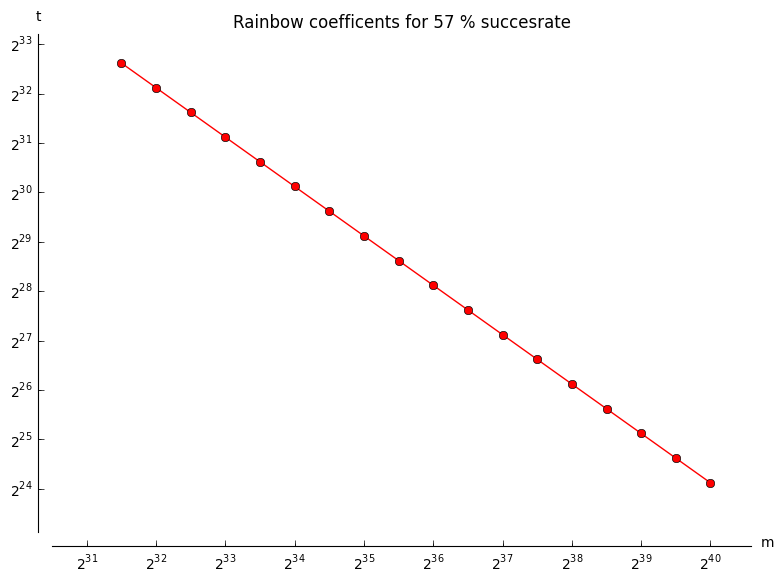
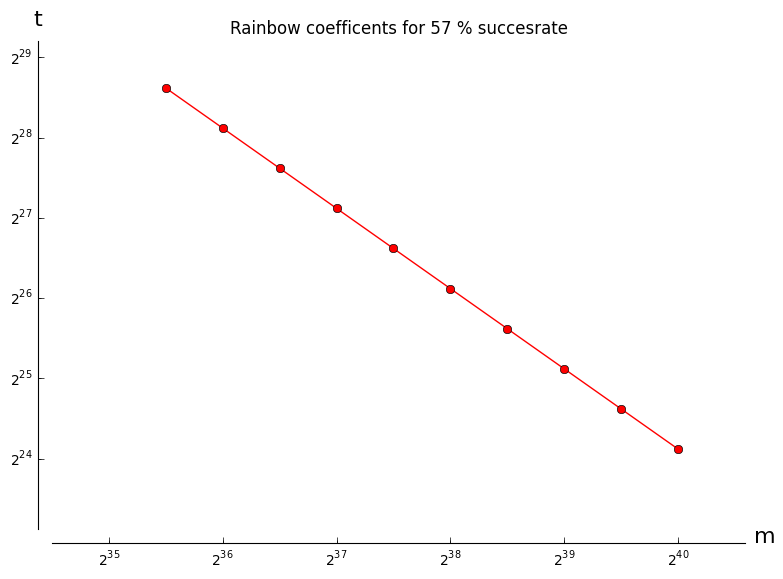
new rainbow graphs and tables and rainbowprob with 64-bit params

diff --git a/src/math/rainbowtab.tex b/src/math/rainbowtab.tex
@@ -1,164 +1,7 @@
-\text{\texttt{Success{ }={ }0.580000,{ }Rmsc{ }={ }1.086067,{ }l{ }={
-    }1,{ }Offline{ }phase{ }={ }2{\char`\^}64.119113}}
-\\\\
-\begin{tabular}{llll}
-m & t & M(TB) & T \\ \hline
-$2^{37.00}$ & $2^{27.12}$ & $0.02$ & $2^{52.43}$ \\
-$2^{37.50}$ & $2^{26.62}$ & $0.02$ & $2^{51.43}$ \\
-$2^{38.00}$ & $2^{26.12}$ & $0.03$ & $2^{50.43}$ \\
-$2^{38.50}$ & $2^{25.62}$ & $0.05$ & $2^{49.43}$ \\
-$2^{39.00}$ & $2^{25.12}$ & $0.07$ & $2^{48.43}$ \\
-$2^{39.50}$ & $2^{24.62}$ & $0.10$ & $2^{47.43}$ \\
-$2^{40.00}$ & $2^{24.12}$ & $0.14$ & $2^{46.43}$ \\
-$2^{40.50}$ & $2^{23.62}$ & $0.19$ & $2^{45.43}$ \\
-$2^{41.00}$ & $2^{23.12}$ & $0.27$ & $2^{44.43}$ \\
-$2^{41.50}$ & $2^{22.62}$ & $0.39$ & $2^{43.43}$ \\
-$2^{42.00}$ & $2^{22.12}$ & $0.55$ & $2^{42.43}$ \\
-$2^{42.50}$ & $2^{21.62}$ & $0.78$ & $2^{41.43}$ \\
-$2^{43.00}$ & $2^{21.12}$ & $1.10$ & $2^{40.43}$ \\
-$2^{43.50}$ & $2^{20.62}$ & $1.55$ & $2^{39.43}$ \\
-$2^{44.00}$ & $2^{20.12}$ & $2.20$ & $2^{38.43}$ \\
-$2^{44.50}$ & $2^{19.62}$ & $3.11$ & $2^{37.43}$ \\
-$2^{45.00}$ & $2^{19.12}$ & $4.40$ & $2^{36.43}$ \\
-$2^{45.50}$ & $2^{18.62}$ & $6.22$ & $2^{35.43}$ \\
-\end{tabular}
-\\\\ 
-\text{\texttt{Success{ }={ }0.730000,{ }Rmsc{ }={ }1.849002,{ }l{ }={
-    }1,{ }Offline{ }phase{ }={ }2{\char`\^}64.886747}}
-\\\\
-\begin{tabular}{llll}
-m & t & M(TB) & T \\ \hline
-$2^{37.00}$ & $2^{27.89}$ & $0.02$ & $2^{53.58}$ \\
-$2^{37.50}$ & $2^{27.39}$ & $0.02$ & $2^{52.58}$ \\
-$2^{38.00}$ & $2^{26.89}$ & $0.03$ & $2^{51.58}$ \\
-$2^{38.50}$ & $2^{26.39}$ & $0.05$ & $2^{50.58}$ \\
-$2^{39.00}$ & $2^{25.89}$ & $0.07$ & $2^{49.58}$ \\
-$2^{39.50}$ & $2^{25.39}$ & $0.10$ & $2^{48.58}$ \\
-$2^{40.00}$ & $2^{24.89}$ & $0.14$ & $2^{47.58}$ \\
-$2^{40.50}$ & $2^{24.39}$ & $0.19$ & $2^{46.58}$ \\
-$2^{41.00}$ & $2^{23.89}$ & $0.27$ & $2^{45.58}$ \\
-$2^{41.50}$ & $2^{23.39}$ & $0.39$ & $2^{44.58}$ \\
-$2^{42.00}$ & $2^{22.89}$ & $0.55$ & $2^{43.58}$ \\
-$2^{42.50}$ & $2^{22.39}$ & $0.78$ & $2^{42.58}$ \\
-$2^{43.00}$ & $2^{21.89}$ & $1.10$ & $2^{41.58}$ \\
-$2^{43.50}$ & $2^{21.39}$ & $1.55$ & $2^{40.58}$ \\
-$2^{44.00}$ & $2^{20.89}$ & $2.20$ & $2^{39.58}$ \\
-$2^{44.50}$ & $2^{20.39}$ & $3.11$ & $2^{38.58}$ \\
-$2^{45.00}$ & $2^{19.89}$ & $4.40$ & $2^{37.58}$ \\
-$2^{45.50}$ & $2^{19.39}$ & $6.22$ & $2^{36.58}$ \\
-\end{tabular}
-\\\\
-\text{\texttt{Success{ }={ }0.900000,{ }Rmsc{ }={ }4.324555,{ }l{ }={
-    }1,{ }Offline{ }phase{ }={ }2{\char`\^}66.112552}}
-\\\\
-\begin{tabular}{llll}
-m & t & M(TB) & T \\ \hline
-$2^{37.00}$ & $2^{29.11}$ & $0.02$ & $2^{55.19}$ \\
-$2^{37.50}$ & $2^{28.61}$ & $0.02$ & $2^{54.19}$ \\
-$2^{38.00}$ & $2^{28.11}$ & $0.03$ & $2^{53.19}$ \\
-$2^{38.50}$ & $2^{27.61}$ & $0.05$ & $2^{52.19}$ \\
-$2^{39.00}$ & $2^{27.11}$ & $0.07$ & $2^{51.19}$ \\
-$2^{39.50}$ & $2^{26.61}$ & $0.10$ & $2^{50.19}$ \\
-$2^{40.00}$ & $2^{26.11}$ & $0.14$ & $2^{49.19}$ \\
-$2^{40.50}$ & $2^{25.61}$ & $0.19$ & $2^{48.19}$ \\
-$2^{41.00}$ & $2^{25.11}$ & $0.27$ & $2^{47.19}$ \\
-$2^{41.50}$ & $2^{24.61}$ & $0.39$ & $2^{46.19}$ \\
-$2^{42.00}$ & $2^{24.11}$ & $0.55$ & $2^{45.19}$ \\
-$2^{42.50}$ & $2^{23.61}$ & $0.78$ & $2^{44.19}$ \\
-$2^{43.00}$ & $2^{23.11}$ & $1.10$ & $2^{43.19}$ \\
-$2^{43.50}$ & $2^{22.61}$ & $1.55$ & $2^{42.19}$ \\
-$2^{44.00}$ & $2^{22.11}$ & $2.20$ & $2^{41.19}$ \\
-$2^{44.50}$ & $2^{21.61}$ & $3.11$ & $2^{40.19}$ \\
-$2^{45.00}$ & $2^{21.11}$ & $4.40$ & $2^{39.19}$ \\
-$2^{45.50}$ & $2^{20.61}$ & $6.22$ & $2^{38.19}$ \\
-\end{tabular}
-\\\\
- \text{\texttt{Success{ }={ }0.580000,{ }Rmsc{ }={ }0.311116,{ }l{ }={
-     }3,{ }Offline{ }phase{ }={ }2{\char`\^}63.900488}}
-\\\\
-\begin{tabular}{llll}
-m & t & M(TB) & T \\ \hline
-$2^{37.00}$ & $2^{25.32}$ & $0.05$ & $2^{50.11}$ \\
-$2^{37.50}$ & $2^{24.82}$ & $0.07$ & $2^{49.11}$ \\
-$2^{38.00}$ & $2^{24.32}$ & $0.10$ & $2^{48.11}$ \\
-$2^{38.50}$ & $2^{23.82}$ & $0.15$ & $2^{47.11}$ \\
-$2^{39.00}$ & $2^{23.32}$ & $0.21$ & $2^{46.11}$ \\
-$2^{39.50}$ & $2^{22.82}$ & $0.29$ & $2^{45.11}$ \\
-$2^{40.00}$ & $2^{22.32}$ & $0.41$ & $2^{44.11}$ \\
-$2^{40.50}$ & $2^{21.82}$ & $0.58$ & $2^{43.11}$ \\
-$2^{41.00}$ & $2^{21.32}$ & $0.82$ & $2^{42.11}$ \\
-$2^{41.50}$ & $2^{20.82}$ & $1.17$ & $2^{41.11}$ \\
-$2^{42.00}$ & $2^{20.32}$ & $1.65$ & $2^{40.11}$ \\
-$2^{42.50}$ & $2^{19.82}$ & $2.33$ & $2^{39.11}$ \\
-$2^{43.00}$ & $2^{19.32}$ & $3.30$ & $2^{38.11}$ \\
-$2^{43.50}$ & $2^{18.82}$ & $4.66$ & $2^{37.11}$ \\
-$2^{44.00}$ & $2^{18.32}$ & $6.60$ & $2^{36.11}$ \\
-$2^{44.50}$ & $2^{17.82}$ & $9.33$ & $2^{35.11}$ \\
-$2^{45.00}$ & $2^{17.32}$ & $13.19$ & $2^{34.11}$ \\
-$2^{45.50}$ & $2^{16.82}$ & $18.66$ & $2^{33.11}$ \\
-\end{tabular}
-\\\\
- \text{\texttt{Success{ }={ }0.730000,{ }Rmsc{ }={ }0.487727,{ }l{ }={
-     }3,{ }Offline{ }phase{ }={ }2{\char`\^}64.549108}}
-\\\\
-\begin{tabular}{llll}
-m & t & M(TB) & T \\ \hline
-$2^{37.00}$ & $2^{25.96}$ & $0.05$ & $2^{50.84}$ \\
-$2^{37.50}$ & $2^{25.46}$ & $0.07$ & $2^{49.84}$ \\
-$2^{38.00}$ & $2^{24.96}$ & $0.10$ & $2^{48.84}$ \\
-$2^{38.50}$ & $2^{24.46}$ & $0.15$ & $2^{47.84}$ \\
-$2^{39.00}$ & $2^{23.96}$ & $0.21$ & $2^{46.84}$ \\
-$2^{39.50}$ & $2^{23.46}$ & $0.29$ & $2^{45.84}$ \\
-$2^{40.00}$ & $2^{22.96}$ & $0.41$ & $2^{44.84}$ \\
-$2^{40.50}$ & $2^{22.46}$ & $0.58$ & $2^{43.84}$ \\
-$2^{41.00}$ & $2^{21.96}$ & $0.82$ & $2^{42.84}$ \\
-$2^{41.50}$ & $2^{21.46}$ & $1.17$ & $2^{41.84}$ \\
-$2^{42.00}$ & $2^{20.96}$ & $1.65$ & $2^{40.84}$ \\
-$2^{42.50}$ & $2^{20.46}$ & $2.33$ & $2^{39.84}$ \\
-$2^{43.00}$ & $2^{19.96}$ & $3.30$ & $2^{38.84}$ \\
-$2^{43.50}$ & $2^{19.46}$ & $4.66$ & $2^{37.84}$ \\
-$2^{44.00}$ & $2^{18.96}$ & $6.60$ & $2^{36.84}$ \\
-$2^{44.50}$ & $2^{18.46}$ & $9.33$ & $2^{35.84}$ \\
-$2^{45.00}$ & $2^{17.96}$ & $13.19$ & $2^{34.84}$ \\
-$2^{45.50}$ & $2^{17.46}$ & $18.66$ & $2^{33.84}$ \\
-\end{tabular}
-\\\\
- \text{\texttt{Success{ }={ }0.900000,{ }Rmsc{ }={ }0.935599,{ }l{ }={
-     }3,{ }Offline{ }phase{ }={ }2{\char`\^}65.488924}}
-\\\\
-\begin{tabular}{llll}
-m & t & M(TB) & T \\ \hline
-$2^{37.00}$ & $2^{26.90}$ & $0.05$ & $2^{51.46}$ \\
-$2^{37.50}$ & $2^{26.40}$ & $0.07$ & $2^{50.46}$ \\
-$2^{38.00}$ & $2^{25.90}$ & $0.10$ & $2^{49.46}$ \\
-$2^{38.50}$ & $2^{25.40}$ & $0.15$ & $2^{48.46}$ \\
-$2^{39.00}$ & $2^{24.90}$ & $0.21$ & $2^{47.46}$ \\
-$2^{39.50}$ & $2^{24.40}$ & $0.29$ & $2^{46.46}$ \\
-$2^{40.00}$ & $2^{23.90}$ & $0.41$ & $2^{45.46}$ \\
-$2^{40.50}$ & $2^{23.40}$ & $0.58$ & $2^{44.46}$ \\
-$2^{41.00}$ & $2^{22.90}$ & $0.82$ & $2^{43.46}$ \\
-$2^{41.50}$ & $2^{22.40}$ & $1.17$ & $2^{42.46}$ \\
-$2^{42.00}$ & $2^{21.90}$ & $1.65$ & $2^{41.46}$ \\
-$2^{42.50}$ & $2^{21.40}$ & $2.33$ & $2^{40.46}$ \\
-$2^{43.00}$ & $2^{20.90}$ & $3.30$ & $2^{39.46}$ \\
-$2^{43.50}$ & $2^{20.40}$ & $4.66$ & $2^{38.46}$ \\
-$2^{44.00}$ & $2^{19.90}$ & $6.60$ & $2^{37.46}$ \\
-$2^{44.50}$ & $2^{19.40}$ & $9.33$ & $2^{36.46}$ \\
-$2^{45.00}$ & $2^{18.90}$ & $13.19$ & $2^{35.46}$ \\
-$2^{45.50}$ & $2^{18.40}$ & $18.66$ & $2^{34.46}$ \\
-\end{tabular}
 
  \ \text{\texttt{Success{ }={ }0.580000,{ }Rmsc{ }={ }1.086067,{ }l{ }={ }1,{ }Offline{ }phase{ }={ }2{\char`\^}64.119113}}
 \begin{tabular}{llll}
 m & t & M(TB) & T \\ \hline
-$2^{31.50}$ & $2^{32.62}$ & $0.02$ & $2^{63.43}$ \\
-$2^{32.00}$ & $2^{32.12}$ & $0.03$ & $2^{62.43}$ \\
-$2^{32.50}$ & $2^{31.62}$ & $0.05$ & $2^{61.43}$ \\
-$2^{33.00}$ & $2^{31.12}$ & $0.07$ & $2^{60.43}$ \\
-$2^{33.50}$ & $2^{30.62}$ & $0.10$ & $2^{59.43}$ \\
-$2^{34.00}$ & $2^{30.12}$ & $0.14$ & $2^{58.43}$ \\
-$2^{34.50}$ & $2^{29.62}$ & $0.19$ & $2^{57.43}$ \\
-$2^{35.00}$ & $2^{29.12}$ & $0.27$ & $2^{56.43}$ \\
 $2^{35.50}$ & $2^{28.62}$ & $0.39$ & $2^{55.43}$ \\
 $2^{36.00}$ & $2^{28.12}$ & $0.55$ & $2^{54.43}$ \\
 $2^{36.50}$ & $2^{27.62}$ & $0.78$ & $2^{53.43}$ \\
@@ -173,14 +16,6 @@ $2^{40.00}$ & $2^{24.12}$ & $8.80$ & $2^{46.43}$ \\
  \ \text{\texttt{Success{ }={ }0.730000,{ }Rmsc{ }={ }1.849002,{ }l{ }={ }1,{ }Offline{ }phase{ }={ }2{\char`\^}64.886747}}
 \begin{tabular}{llll}
 m & t & M(TB) & T \\ \hline
-$2^{31.50}$ & $2^{33.39}$ & $0.02$ & $2^{64.58}$ \\
-$2^{32.00}$ & $2^{32.89}$ & $0.03$ & $2^{63.58}$ \\
-$2^{32.50}$ & $2^{32.39}$ & $0.05$ & $2^{62.58}$ \\
-$2^{33.00}$ & $2^{31.89}$ & $0.07$ & $2^{61.58}$ \\
-$2^{33.50}$ & $2^{31.39}$ & $0.10$ & $2^{60.58}$ \\
-$2^{34.00}$ & $2^{30.89}$ & $0.14$ & $2^{59.58}$ \\
-$2^{34.50}$ & $2^{30.39}$ & $0.19$ & $2^{58.58}$ \\
-$2^{35.00}$ & $2^{29.89}$ & $0.27$ & $2^{57.58}$ \\
 $2^{35.50}$ & $2^{29.39}$ & $0.39$ & $2^{56.58}$ \\
 $2^{36.00}$ & $2^{28.89}$ & $0.55$ & $2^{55.58}$ \\
 $2^{36.50}$ & $2^{28.39}$ & $0.78$ & $2^{54.58}$ \\
@@ -195,14 +30,6 @@ $2^{40.00}$ & $2^{24.89}$ & $8.80$ & $2^{47.58}$ \\
  \ \text{\texttt{Success{ }={ }0.900000,{ }Rmsc{ }={ }4.324555,{ }l{ }={ }1,{ }Offline{ }phase{ }={ }2{\char`\^}66.112552}}
 \begin{tabular}{llll}
 m & t & M(TB) & T \\ \hline
-$2^{31.50}$ & $2^{34.61}$ & $0.02$ & $2^{66.19}$ \\
-$2^{32.00}$ & $2^{34.11}$ & $0.03$ & $2^{65.19}$ \\
-$2^{32.50}$ & $2^{33.61}$ & $0.05$ & $2^{64.19}$ \\
-$2^{33.00}$ & $2^{33.11}$ & $0.07$ & $2^{63.19}$ \\
-$2^{33.50}$ & $2^{32.61}$ & $0.10$ & $2^{62.19}$ \\
-$2^{34.00}$ & $2^{32.11}$ & $0.14$ & $2^{61.19}$ \\
-$2^{34.50}$ & $2^{31.61}$ & $0.19$ & $2^{60.19}$ \\
-$2^{35.00}$ & $2^{31.11}$ & $0.27$ & $2^{59.19}$ \\
 $2^{35.50}$ & $2^{30.61}$ & $0.39$ & $2^{58.19}$ \\
 $2^{36.00}$ & $2^{30.11}$ & $0.55$ & $2^{57.19}$ \\
 $2^{36.50}$ & $2^{29.61}$ & $0.78$ & $2^{56.19}$ \\
@@ -214,25 +41,46 @@ $2^{39.00}$ & $2^{27.11}$ & $4.40$ & $2^{51.19}$ \\
 $2^{39.50}$ & $2^{26.61}$ & $6.22$ & $2^{50.19}$ \\
 $2^{40.00}$ & $2^{26.11}$ & $8.80$ & $2^{49.19}$ \\
 \end{tabular}
- \ \text{\texttt{Success{ }={ }0.580000,{ }Rmsc{ }={ }1.086067,{ }l{ }={ }1,{ }Offline{ }phase{ }={ }2{\char`\^}64.119113}}
+
+ \ \text{\texttt{Success{ }={ }0.580000,{ }Rmsc{ }={ }0.311116,{ }l{ }={ }3,{ }Offline{ }phase{ }={ }2{\char`\^}63.900488}}
 \begin{tabular}{llll}
 m & t & M(TB) & T \\ \hline
-$2^{31.50}$ & $2^{32.62}$ & $0.02$ & $2^{63.43}$ \\
-$2^{32.00}$ & $2^{32.12}$ & $0.03$ & $2^{62.43}$ \\
-$2^{32.50}$ & $2^{31.62}$ & $0.05$ & $2^{61.43}$ \\
-$2^{33.00}$ & $2^{31.12}$ & $0.07$ & $2^{60.43}$ \\
-$2^{33.50}$ & $2^{30.62}$ & $0.10$ & $2^{59.43}$ \\
-$2^{34.00}$ & $2^{30.12}$ & $0.14$ & $2^{58.43}$ \\
-$2^{34.50}$ & $2^{29.62}$ & $0.19$ & $2^{57.43}$ \\
-$2^{35.00}$ & $2^{29.12}$ & $0.27$ & $2^{56.43}$ \\
-$2^{35.50}$ & $2^{28.62}$ & $0.39$ & $2^{55.43}$ \\
-$2^{36.00}$ & $2^{28.12}$ & $0.55$ & $2^{54.43}$ \\
-$2^{36.50}$ & $2^{27.62}$ & $0.78$ & $2^{53.43}$ \\
-$2^{37.00}$ & $2^{27.12}$ & $1.10$ & $2^{52.43}$ \\
-$2^{37.50}$ & $2^{26.62}$ & $1.55$ & $2^{51.43}$ \\
-$2^{38.00}$ & $2^{26.12}$ & $2.20$ & $2^{50.43}$ \\
-$2^{38.50}$ & $2^{25.62}$ & $3.11$ & $2^{49.43}$ \\
-$2^{39.00}$ & $2^{25.12}$ & $4.40$ & $2^{48.43}$ \\
-$2^{39.50}$ & $2^{24.62}$ & $6.22$ & $2^{47.43}$ \\
-$2^{40.00}$ & $2^{24.12}$ & $8.80$ & $2^{46.43}$ \\
+$2^{35.50}$ & $2^{26.82}$ & $1.17$ & $2^{53.11}$ \\
+$2^{36.00}$ & $2^{26.32}$ & $1.65$ & $2^{52.11}$ \\
+$2^{36.50}$ & $2^{25.82}$ & $2.33$ & $2^{51.11}$ \\
+$2^{37.00}$ & $2^{25.32}$ & $3.30$ & $2^{50.11}$ \\
+$2^{37.50}$ & $2^{24.82}$ & $4.66$ & $2^{49.11}$ \\
+$2^{38.00}$ & $2^{24.32}$ & $6.60$ & $2^{48.11}$ \\
+$2^{38.50}$ & $2^{23.82}$ & $9.33$ & $2^{47.11}$ \\
+$2^{39.00}$ & $2^{23.32}$ & $13.19$ & $2^{46.11}$ \\
+$2^{39.50}$ & $2^{22.82}$ & $18.66$ & $2^{45.11}$ \\
+$2^{40.00}$ & $2^{22.32}$ & $26.39$ & $2^{44.11}$ \\
+\end{tabular}
+ \ \text{\texttt{Success{ }={ }0.730000,{ }Rmsc{ }={ }0.487727,{ }l{ }={ }3,{ }Offline{ }phase{ }={ }2{\char`\^}64.549108}}
+\begin{tabular}{llll}
+m & t & M(TB) & T \\ \hline
+$2^{35.50}$ & $2^{27.46}$ & $1.17$ & $2^{53.84}$ \\
+$2^{36.00}$ & $2^{26.96}$ & $1.65$ & $2^{52.84}$ \\
+$2^{36.50}$ & $2^{26.46}$ & $2.33$ & $2^{51.84}$ \\
+$2^{37.00}$ & $2^{25.96}$ & $3.30$ & $2^{50.84}$ \\
+$2^{37.50}$ & $2^{25.46}$ & $4.66$ & $2^{49.84}$ \\
+$2^{38.00}$ & $2^{24.96}$ & $6.60$ & $2^{48.84}$ \\
+$2^{38.50}$ & $2^{24.46}$ & $9.33$ & $2^{47.84}$ \\
+$2^{39.00}$ & $2^{23.96}$ & $13.19$ & $2^{46.84}$ \\
+$2^{39.50}$ & $2^{23.46}$ & $18.66$ & $2^{45.84}$ \\
+$2^{40.00}$ & $2^{22.96}$ & $26.39$ & $2^{44.84}$ \\
+\end{tabular}
+ \ \text{\texttt{Success{ }={ }0.900000,{ }Rmsc{ }={ }0.935599,{ }l{ }={ }3,{ }Offline{ }phase{ }={ }2{\char`\^}65.488924}}
+\begin{tabular}{llll}
+m & t & M(TB) & T \\ \hline
+$2^{35.50}$ & $2^{28.40}$ & $1.17$ & $2^{54.46}$ \\
+$2^{36.00}$ & $2^{27.90}$ & $1.65$ & $2^{53.46}$ \\
+$2^{36.50}$ & $2^{27.40}$ & $2.33$ & $2^{52.46}$ \\
+$2^{37.00}$ & $2^{26.90}$ & $3.30$ & $2^{51.46}$ \\
+$2^{37.50}$ & $2^{26.40}$ & $4.66$ & $2^{50.46}$ \\
+$2^{38.00}$ & $2^{25.90}$ & $6.60$ & $2^{49.46}$ \\
+$2^{38.50}$ & $2^{25.40}$ & $9.33$ & $2^{48.46}$ \\
+$2^{39.00}$ & $2^{24.90}$ & $13.19$ & $2^{47.46}$ \\
+$2^{39.50}$ & $2^{24.40}$ & $18.66$ & $2^{46.46}$ \\
+$2^{40.00}$ & $2^{23.90}$ & $26.39$ & $2^{45.46}$ \\
 \end{tabular}
